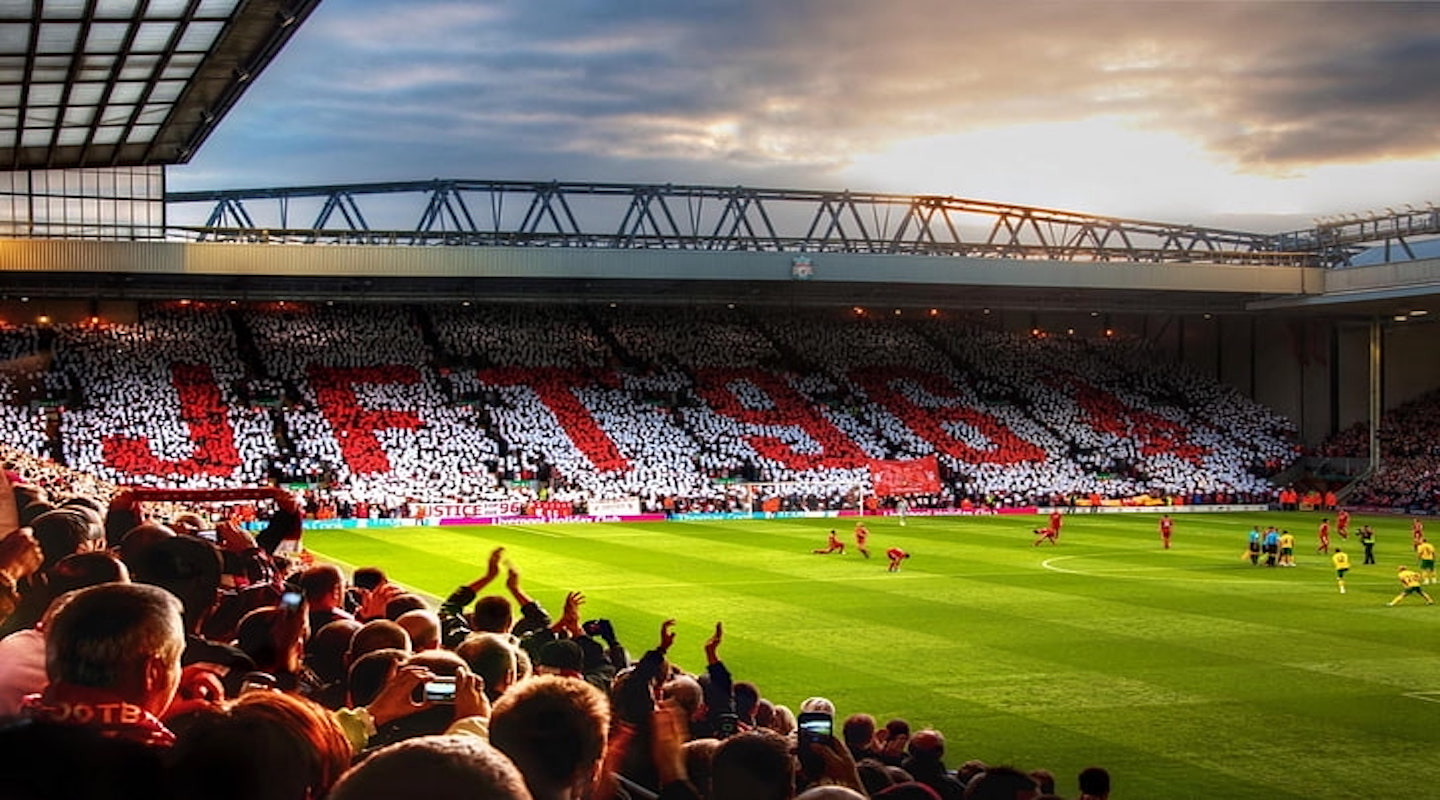
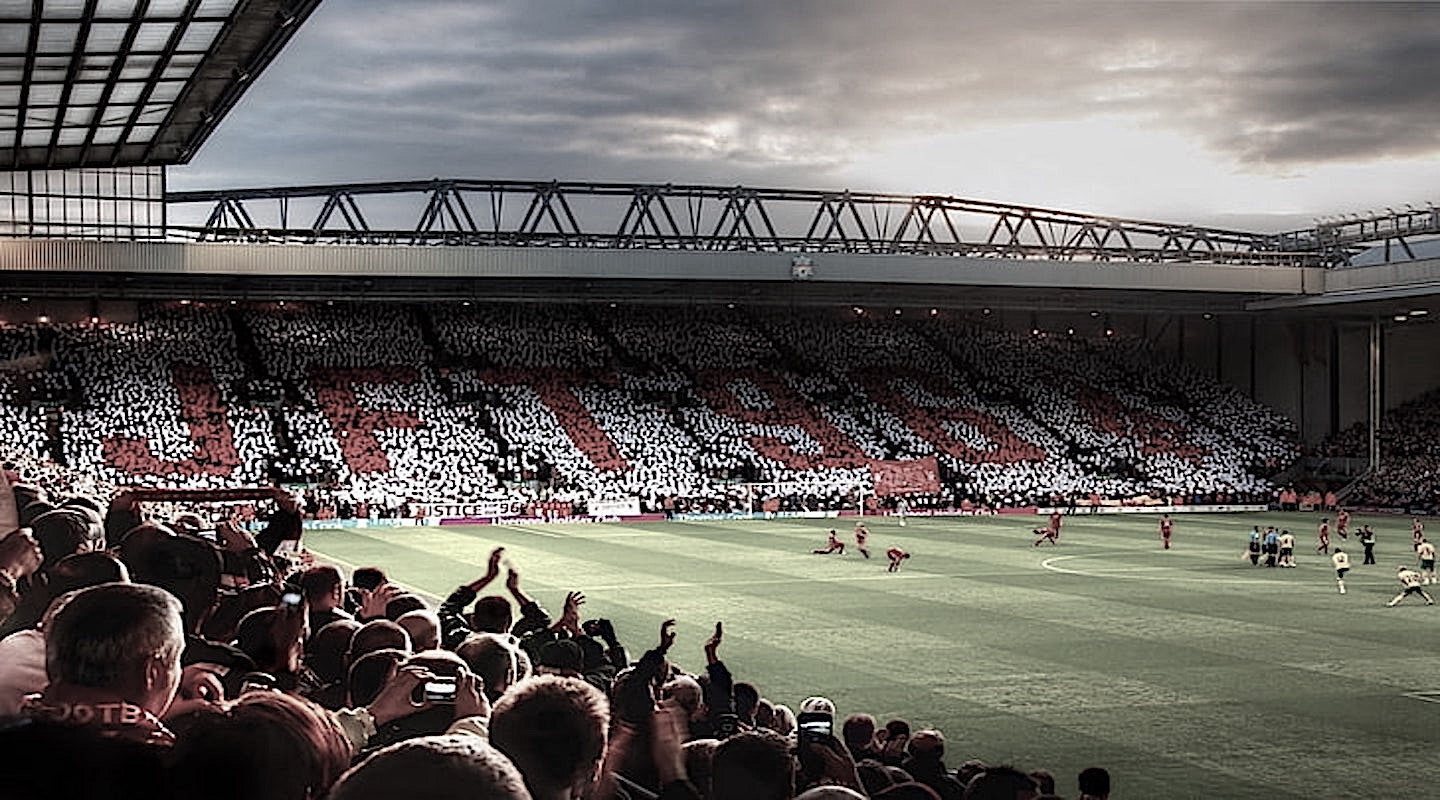
修正４

diff --git a/app/assets/stylesheets/soccer.css b/app/assets/stylesheets/soccer.css
@@ -30,7 +30,7 @@
 .mainpage_main {
   width: 100vw;
   height: 100vh;
-  background-image: url(トップページ.jpeg);
+  background-image: url(anfield.jpeg);
 }
 
 .search_main {
@@ -678,31 +678,31 @@
 
 .main_title {
   font-size: 90px;
-  color: white;
+  color: #CCFFCC;
   font-family: 'TsukuARdGothic-Regular';
   font-weight: bold;
   margin-left: 200px;
   margin-top: 20px;
   text-shadow    : 
-       2px  2px 1px #1a1aff,
-      -2px  2px 1px #1a1aff,
-       2px -2px 1px #1a1aff,
-      -2px -2px 1px #1a1aff,
-       2px  0px 1px #1a1aff,
-       0px  2px 1px #1a1aff,
-      -2px  0px 1px #1a1aff,
-       0px -2px 1px #1a1aff;  
+  2px  2px 1px #00b300,
+ -2px  2px 1px #00b300,
+  2px -2px 1px #00b300,
+ -2px -2px 1px #00b300,
+  2px  0px 1px #00b300,
+  0px  2px 1px #00b300,
+ -2px  0px 1px #00b300,
+  0px -2px 1px #00b300; 
 }
 
 .main_span {
-  color: tomato;
+  color: #ff7f7f;
   text-shadow    : 
-  2px  2px 1px #ffffff,
- -2px  2px 1px #ffffff,
-  2px -2px 1px #ffffff,
- -2px -2px 1px #ffffff,
-  2px  0px 1px #ffffff,
-  0px  2px 1px #ffffff,
- -2px  0px 1px #ffffff,
-  0px -2px 1px #ffffff; 
+  2px  2px 1px bisque,
+ -2px  2px 1px bisque,
+  2px -2px 1px bisque,
+ -2px -2px 1px bisque,
+  2px  0px 1px bisque,
+  0px  2px 1px bisque,
+ -2px  0px 1px bisque,
+  0px -2px 1px bisque; 
 }
